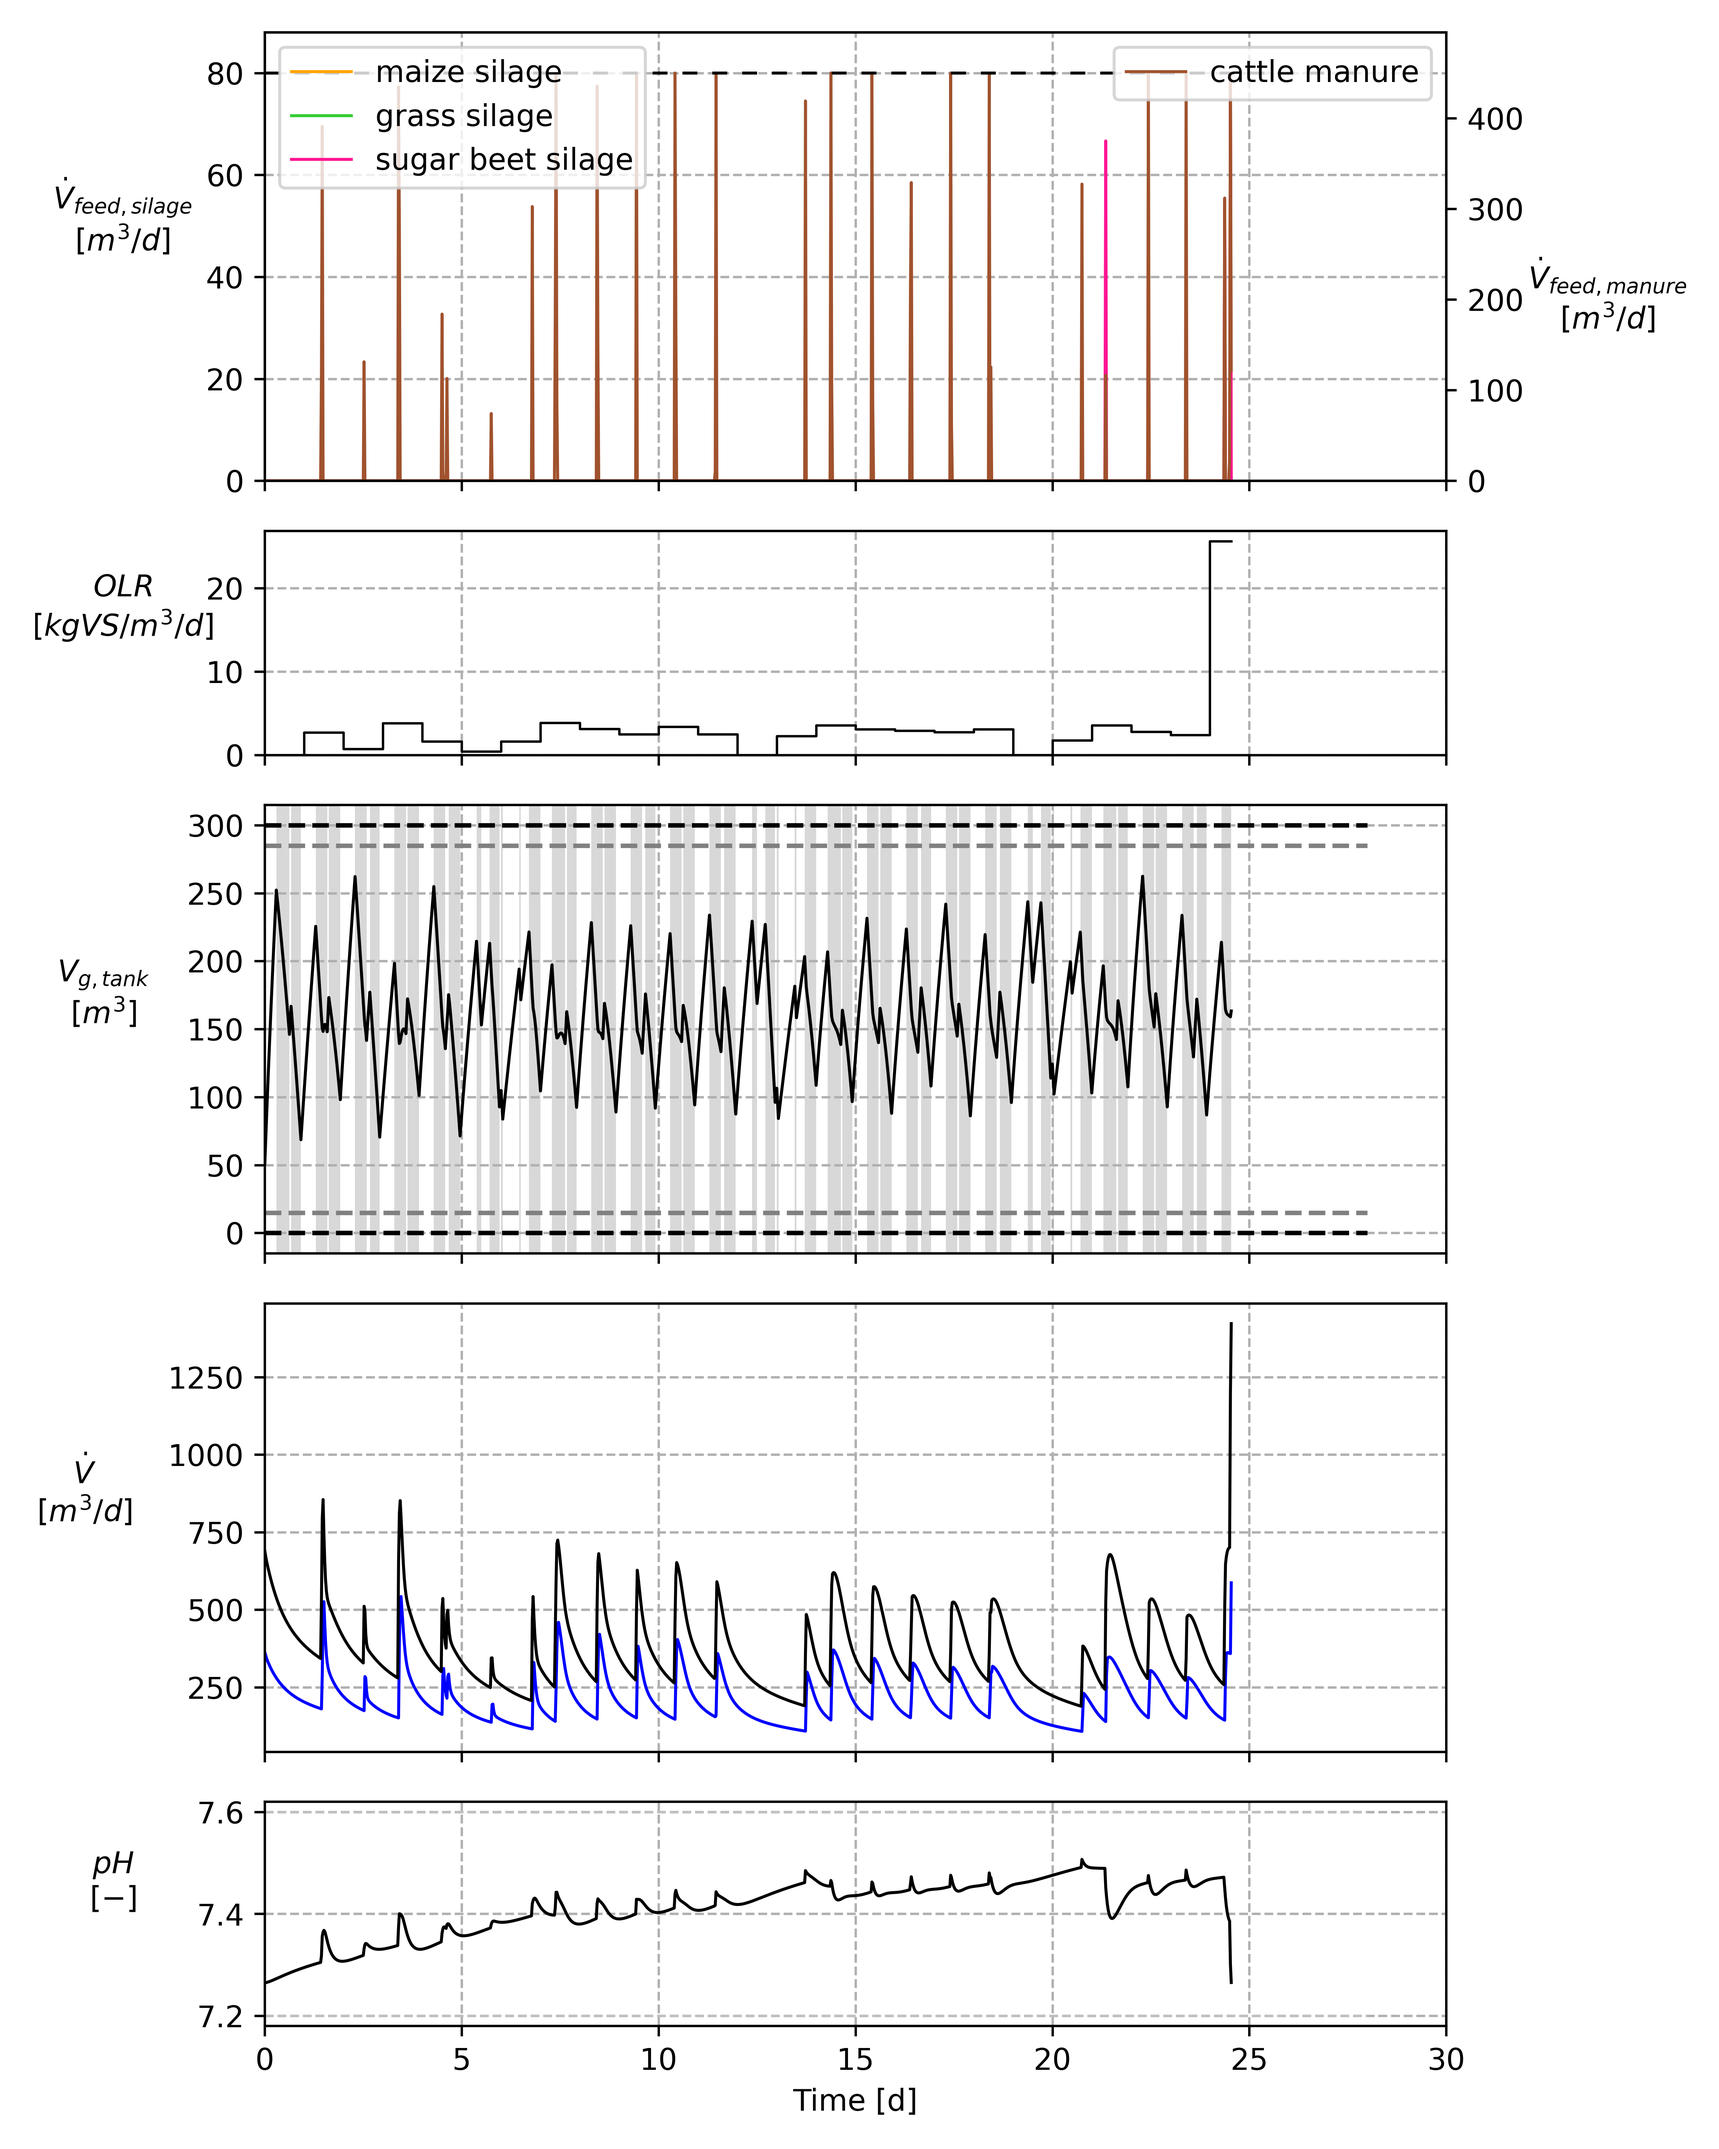
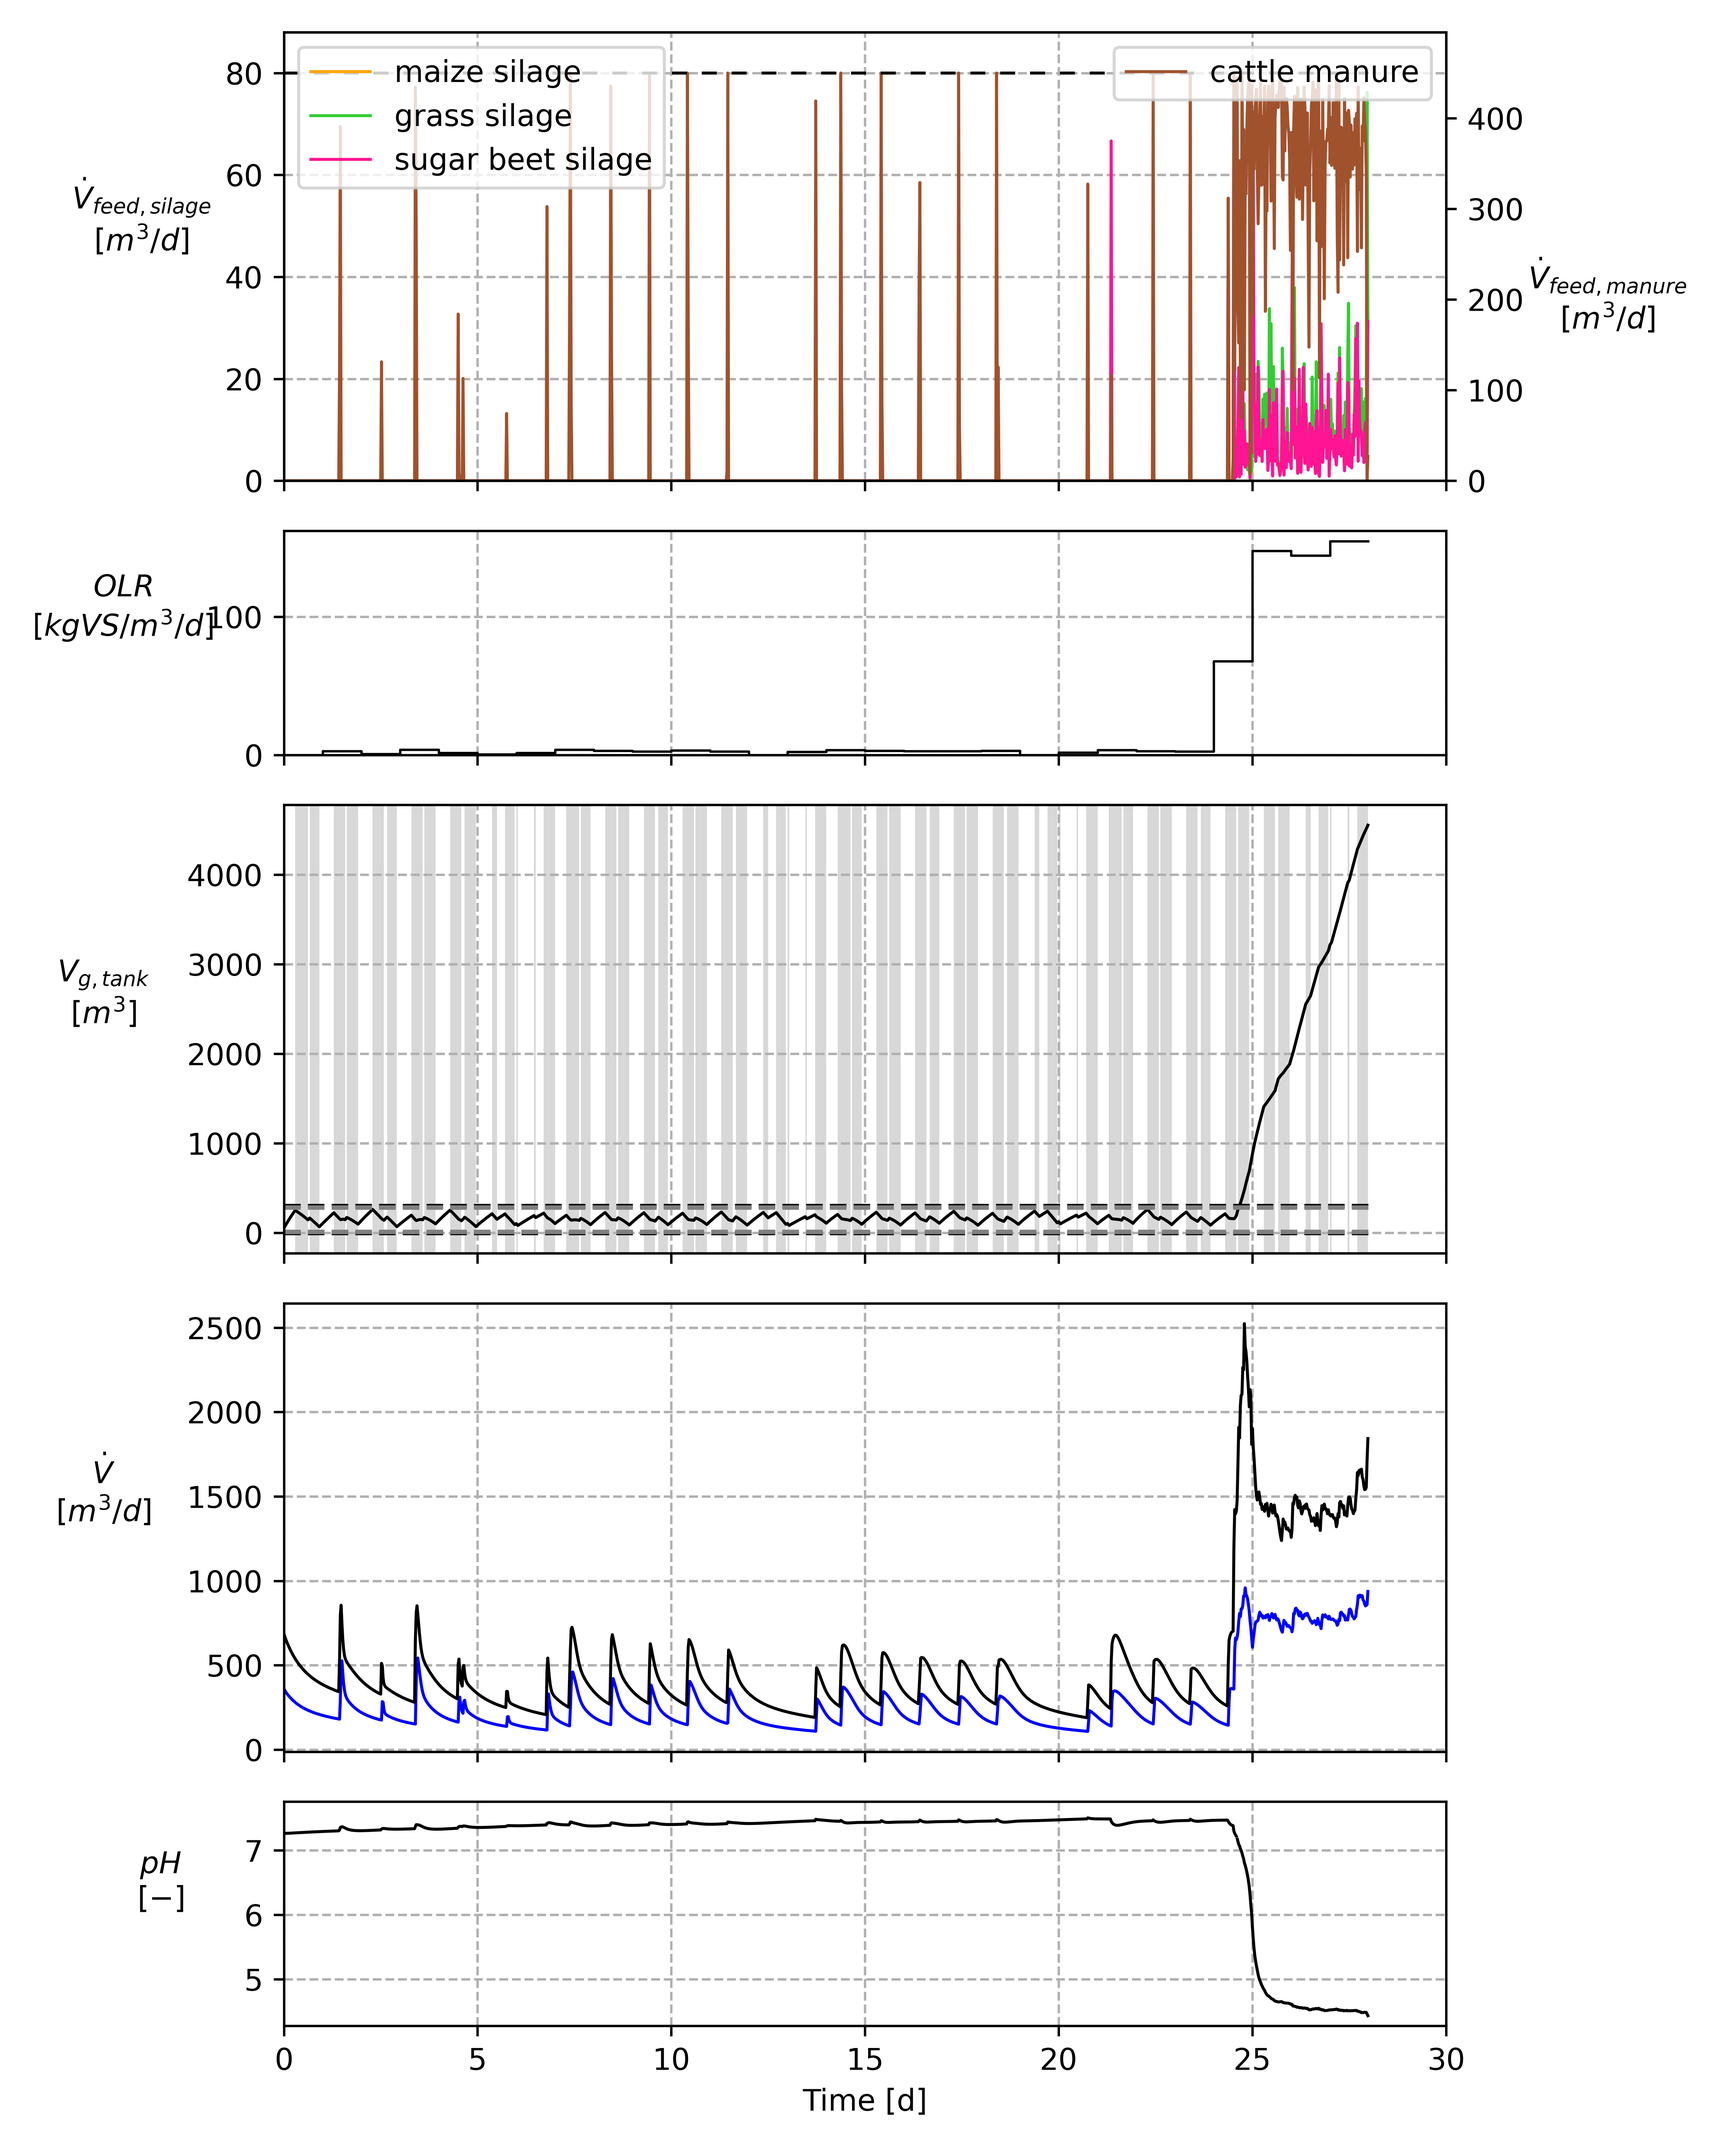
update Sc. 2a nominal (crashes as of day 23)

diff --git a/tests/test_total_computing_time.py b/tests/test_total_computing_time.py
@@ -17,7 +17,7 @@ def read_computation_times(file_path):
 
     return f"{int(hours):02}:{int(minutes):02}:{int(seconds):02}"
 
-my_scenario = '2a_robust'  # '1b' '2a_robust', '2a_nominal', '2c'
+my_scenario = '2a_nominal'  # '1b' '2a_robust', '2a_nominal', '2c'
 if my_scenario == '1b':
     scen_name = 'Scenario_1b_quadratic_robust_feedback_mismatch_1.5std_3tsap'
 elif my_scenario == '2a_nominal':
